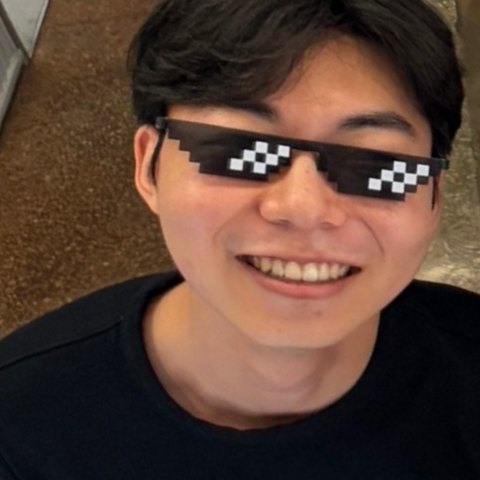
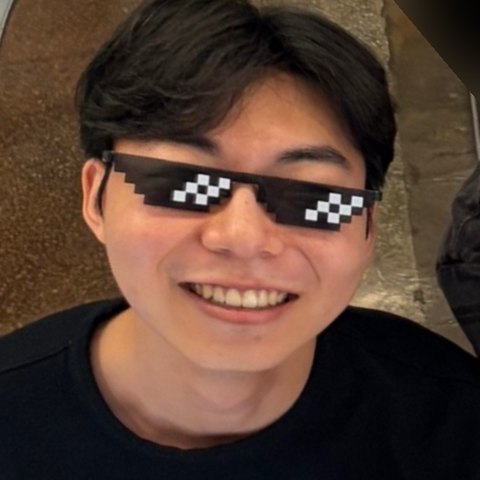
Team photo centered; API slides as grouped endpoint cards and code cards

diff --git a/docs/index.html b/docs/index.html
@@ -149,6 +149,19 @@
 
     .roadmap>div{display:flex;align-items:center;gap:20px;padding:9px 0;border-top:1px dashed #D3DDE3}.roadmap>div:first-child{border-top:0;padding-top:0}.roadmap svg{width:120px;height:64px;flex:none}.roadmap p{margin:0;display:flex;flex-direction:column;gap:3px}.roadmap b{font-size:21px;letter-spacing:-.02em}.roadmap span{font-size:17px;color:var(--muted);word-break:keep-all}
 
+    .apigrid{display:grid;grid-template-columns:1fr 1.25fr 1fr;gap:22px;margin-top:30px}
+    .apigroup{padding:24px 26px}.apigroup h3{display:flex;align-items:center;gap:10px;font-size:22px;margin:0 0 14px}.apigroup ul{list-style:none;margin:0;padding:0}
+    .apigroup li{display:grid;grid-template-columns:auto 1fr;gap:4px 12px;align-items:center;padding:11px 0;border-top:1px solid #EEEAE4}.apigroup li:first-child{border-top:0}
+    .apigroup code,.cmdflow code,.lanes code{font:600 18px ui-monospace,Menlo,monospace;color:var(--ink)}.apigroup em{grid-column:2;font-style:normal;font-size:16px;color:var(--muted)}
+    .mths{display:flex;gap:4px}.mth{display:inline-block;min-width:50px;text-align:center;border-radius:7px;padding:4px 8px;font:700 13px ui-monospace,Menlo,monospace;background:#E0ECFA;color:#385F93}.mth.post{background:#DEF0E5;color:#356A4C}
+    .lanes{display:grid;grid-template-columns:1fr 1.4fr;gap:22px;margin-top:22px}.lanes>div{display:flex;align-items:center;gap:14px;padding:16px 22px;border-radius:16px;background:#F3EFE8;font-size:18px;color:var(--muted)}
+    .cmdflow{display:grid;grid-template-columns:repeat(4,1fr);gap:22px;margin-top:30px}.cmdflow .card{position:relative;padding:22px 24px;display:flex;flex-direction:column;gap:8px}.cmdflow .card:not(:last-child):after{content:'→';position:absolute;right:-19px;top:30px;color:#A7ACB4;font-size:22px}
+    .cmdflow b{font-size:22px;letter-spacing:-.02em;margin-top:4px}.cmdflow p{margin:0;display:flex;align-items:center;gap:8px;flex-wrap:wrap}.cmdflow code{font-size:16px}.cmdflow em{font-style:normal;font-size:16px;color:var(--muted)}.cmdflow .badge{width:38px;height:38px;font-size:18px}
+    .codes{display:grid;grid-template-columns:1fr 1fr;gap:24px;margin-top:24px}
+    .codecard{border-radius:18px;overflow:hidden;background:#2E323B;box-shadow:0 12px 28px #3b3f4a22}.codecard header{display:flex;align-items:center;gap:8px;padding:12px 18px;background:#262931;font:600 15px ui-monospace,Menlo,monospace;color:#C9CED8}.codecard header i{width:11px;height:11px;border-radius:50%;background:#FF6057}.codecard header i:nth-child(2){background:#FEBC2E}.codecard header i:nth-child(3){background:#28C840;margin-right:8px}
+    .codecard pre{margin:0;padding:18px 22px;font:18px/1.6 ui-monospace,Menlo,monospace;color:#E6E8EC}.codecard .k{color:#A9C9F5}.codecard .v{color:#B6E5CF}
+    .codecard footer{padding:14px 22px 18px;border-top:1px solid #3A3F4A;font-size:16px;line-height:1.6;color:#C9CED8}.codecard .sc{display:inline-block;margin:0 6px 0 10px;padding:1px 8px;border-radius:6px;background:#F8C4A4;color:#3B3F4A;font:700 14px ui-monospace,Menlo,monospace}.codecard .sc:first-child{margin-left:0}
+
     /* controls stay out of the way of the slide footer */
     #controls{position:fixed;z-index:10;right:22px;bottom:19px;display:flex;align-items:center;gap:8px;opacity:.35;transition:opacity .2s}#controls:hover{opacity:1}
     #controls button{background:var(--ink);color:#fff;border:0;border-radius:99px;padding:9px 13px;cursor:pointer}#controls button:hover{background:var(--blue-d)}
@@ -164,26 +177,6 @@
     .erd-figure.agent img{height:500px}
     .tech-caption{display:flex;gap:20px;align-items:center;justify-content:space-between;margin-top:14px;font-size:17px;color:var(--muted);line-height:1.5}
     .tech-link{color:#385F93;text-decoration:underline;text-underline-offset:4px;font-weight:700;white-space:nowrap}
-    .api-table{width:100%;border-collapse:separate;border-spacing:0;margin-top:26px;font-size:20px;overflow:hidden;border:1px solid var(--line);border-radius:20px;background:var(--card)}
-    .api-table th{text-align:left;background:#EFECE6;padding:14px 20px;font-size:17px;color:var(--muted)}
-    .api-table td{border-top:1px solid var(--line);padding:13px 20px;line-height:1.4}
-    .api-table td:first-child{width:150px;white-space:nowrap}
-    .api-table td:nth-child(2){width:550px}
-    .api-table code{font-family:ui-monospace,Menlo,monospace;font-size:19px}
-    .api-method{display:inline-block;border-radius:7px;background:#E0ECFA;color:#385F93;padding:5px 10px;font:700 16px ui-monospace,Menlo,monospace}
-    .api-method.post{background:#DEF0E5;color:#356A4C}
-    .api-scope{margin-top:20px;padding:18px 22px;background:#EEF4FD;border-radius:16px;font-size:18px;line-height:1.6}
-    .api-scope code{font-size:17px}
-    .command-flow{display:grid;grid-template-columns:repeat(4,1fr);gap:20px;margin-top:30px}
-    .command-step{padding:22px 24px;border:1px solid var(--line);border-radius:20px;background:var(--card);position:relative}
-    .command-step:not(:last-child):after{content:'→';position:absolute;right:-17px;top:38px;color:var(--eyebrow);font-size:24px}
-    .command-step b{display:block;font-size:23px;margin-bottom:9px;letter-spacing:-.02em}
-    .command-step span{font-size:18px;line-height:1.55;color:var(--muted)}
-    .api-examples{display:grid;grid-template-columns:1fr 1fr;gap:26px;margin-top:24px}
-    .api-example{padding:22px 26px;border:1px solid var(--line);border-radius:20px;background:var(--card)}
-    .api-example h3{font-size:21px;margin:0 0 14px}
-    .api-example pre{font:18px/1.5 ui-monospace,Menlo,monospace;margin:0;white-space:pre-wrap;overflow-wrap:anywhere;color:#475262}
-    .api-example .note{font-size:17px;margin-top:14px}
     .tech-slide a:focus-visible{outline:3px solid var(--blue-d);outline-offset:5px}
   </style>
 </head>
@@ -353,16 +346,8 @@
     <div class="topline"><span class="kicker">03 / API specification · Web</span><a class="tag blue tech-link" href="api-spec.html" target="_blank" rel="noopener noreferrer">상세 명세서 · 43개 동작 ↗</a></div>
     <h2 class="title">웹은 상태를 읽고, 사용자의 결정을 전달</h2>
     <p class="lead">공통 경로 <code>/api/v1/</code> · JSON · 로그인 세션 + 변경 요청의 X-CSRFToken</p>
-    <table class="api-table"><thead><tr><th>Method</th><th>Endpoint · 접두사 생략</th><th>요청 / 응답의 역할</th></tr></thead><tbody>
-      <tr><td><span class="api-method">GET</span></td><td><code>auth/session/</code></td><td>로그인 상태 · CSRF 토큰 조회</td></tr>
-      <tr><td><span class="api-method post">POST</span></td><td><code>auth/signup/ · auth/login/</code></td><td>계정 생성 201 · 로그인 200 · 세션 발급</td></tr>
-      <tr><td><span class="api-method">GET</span></td><td><code>agent/status/</code></td><td>Mac 연결 · 파일 상태 · 최근 명령 조회</td></tr>
-      <tr><td><span class="api-method post">POST</span></td><td><code>agent/commands/</code></td><td>분류 답변 · 승인 · 유지 · 되돌리기 · 복구</td></tr>
-      <tr><td><span class="api-method post">POST</span></td><td><code>agent/pairing/</code></td><td>5분짜리 일회용 Mac 연결 코드 발급</td></tr>
-      <tr><td><span class="api-method">GET</span> <span class="api-method post">POST</span></td><td><code>onboarding/</code></td><td>연결 가이드 진행 조회 · 테스트 수신 확인</td></tr>
-      <tr><td><span class="api-method">REST</span></td><td><code>devices/ · folders/ · files/ · reviews/</code></td><td>사용자 소유 DB 기록 조회·등록 (기능별 수정·삭제)</td></tr>
-    </tbody></table>
-    <div class="api-scope"><b>DB 기록과 실제 파일 작업의 경계</b> · <code>reviews/{id}/answer/</code>는 답변을 저장합니다.<br>Mac의 파일 이동·복구는 <code>agent/commands/</code> → 브리지 → 로컬 실행기를 거칩니다.</div>
+    <div class="apigrid"><div class="card apigroup"><h3><span class="fdot blue"></span>인증 · 계정</h3><ul><li><span class="mths"><span class="mth get">GET</span></span><code>auth/session/</code><em>로그인 상태 · CSRF 토큰</em></li><li><span class="mths"><span class="mth post">POST</span></span><code>auth/signup/</code><em>계정 생성 · 201</em></li><li><span class="mths"><span class="mth post">POST</span></span><code>auth/login/</code><em>로그인 · 세션 발급</em></li></ul></div><div class="card apigroup"><h3><span class="fdot peach"></span>Mac 연결 · 명령</h3><ul><li><span class="mths"><span class="mth get">GET</span></span><code>agent/status/</code><em>Mac 연결 · 파일 상태 · 최근 명령</em></li><li><span class="mths"><span class="mth post">POST</span></span><code>agent/commands/</code><em>답변 · 승인 · 유지 · 되돌리기 · 복구</em></li><li><span class="mths"><span class="mth post">POST</span></span><code>agent/pairing/</code><em>5분짜리 일회용 연결 코드</em></li><li><span class="mths"><span class="mth get">GET</span><span class="mth post">POST</span></span><code>onboarding/</code><em>연결 가이드 진행 · 테스트 수신</em></li></ul></div><div class="card apigroup"><h3><span class="fdot mint"></span>사용자 데이터 · REST</h3><ul><li><span class="mths"><span class="mth get">GET</span><span class="mth post">POST</span></span><code>devices/</code><em>기기</em></li><li><span class="mths"><span class="mth get">GET</span><span class="mth post">POST</span></span><code>folders/</code><em>폴더와 지침</em></li><li><span class="mths"><span class="mth get">GET</span><span class="mth post">POST</span></span><code>files/</code><em>파일 기록</em></li><li><span class="mths"><span class="mth get">GET</span><span class="mth post">POST</span></span><code>reviews/</code><em>분류 질문 · 답변</em></li></ul></div></div>
+    <div class="lanes"><div><span class="tag mint">DB 기록</span><code>reviews/{id}/answer/</code> 답변만 저장</div><div><span class="tag peach">실제 파일 작업</span><code>agent/commands/</code> → 브리지 → Mac 로컬 실행기</div></div>
     <div class="pagefoot">SOURCE · moa_api/urls.py · library/views.py · agent_api.py · OpenAPI 스냅샷을 상세 명세서로 제공</div>
   </section>
 
@@ -370,24 +355,16 @@
     <div class="topline"><span class="kicker">03 / API specification · Execution</span><span class="tag peach">Session ↔ Bearer</span></div>
     <h2 class="title">승인은 웹에서, 파일 변경은 Mac에서</h2>
     <p class="lead">브리지는 Bearer 토큰으로 5초마다 동기화하고, 실행기는 계획과 파일 해시를 재검증합니다.</p>
-    <div class="command-flow">
-      <div class="command-step"><b>1 · 웹에서 승인</b><span>POST agent/commands/<br>201 · pending 생성</span></div>
-      <div class="command-step"><b>2 · 브리지가 수신</b><span>POST agent/bridge/poll/<br>가장 오래된 명령 → running</span></div>
-      <div class="command-step"><b>3 · Mac에서 실행</b><span>로컬 실행기에서 재검증<br>승인한 파일 작업 수행</span></div>
-      <div class="command-step"><b>4 · 결과 보고</b><span>POST agent/bridge/result/<br>done 또는 failed 저장</span></div>
-    </div>
-    <div class="api-examples">
-      <article class="api-example"><h3>승인 요청 · POST /api/v1/agent/commands/</h3><pre>{
-  "link_id": "00000000-0000-4000-8000-000000000001",
-  "action": "approve",
-  "asset_id": "local-asset-id"
-}</pre><p class="note">plan은 서버의 최신 snapshot에서 가져옵니다.<br>클라이언트가 임의의 이동 경로를 보내지 않습니다.</p></article>
-      <article class="api-example"><h3>201 응답 예시 · 핵심 필드</h3><pre>{
-  "id": "00000000-0000-4000-8000-000000000002",
-  "action": "approve",
-  "status": "pending"
-}</pre><p class="note">400 잘못된 요청 · 403 인증/CSRF 오류<br>404 연결 없음 · 409 이미 처리 중인 명령</p></article>
-    </div>
+    <div class="cmdflow"><div class="card"><span class="badge blue">1</span><b>웹에서 승인</b><p><span class="mth post">POST</span><code>agent/commands/</code></p><em>201 · pending 생성</em></div><div class="card"><span class="badge peach">2</span><b>브리지가 수신</b><p><span class="mth post">POST</span><code>agent/bridge/poll/</code></p><em>가장 오래된 명령 → running</em></div><div class="card"><span class="badge mint">3</span><b>Mac에서 실행</b><p><code>로컬 실행기</code></p><em>계획 · 파일 해시 재검증 후 수행</em></div><div class="card"><span class="badge butter">4</span><b>결과 보고</b><p><span class="mth post">POST</span><code>agent/bridge/result/</code></p><em>done 또는 failed 저장</em></div></div>
+    <div class="codes"><article class="codecard"><header><i></i><i></i><i></i><span>POST /api/v1/agent/commands/</span></header><pre>{
+  <span class="k">"link_id"</span>: <span class="v">"0000…0001"</span>,
+  <span class="k">"action"</span>: <span class="v">"approve"</span>,
+  <span class="k">"asset_id"</span>: <span class="v">"local-asset-id"</span>
+}</pre><footer>plan은 서버의 최신 snapshot에서 가져와, 클라이언트가 이동 경로를 보내지 않습니다.</footer></article><article class="codecard"><header><i></i><i></i><i></i><span>201 Created · 핵심 필드</span></header><pre>{
+  <span class="k">"id"</span>: <span class="v">"0000…0002"</span>,
+  <span class="k">"action"</span>: <span class="v">"approve"</span>,
+  <span class="k">"status"</span>: <span class="v">"pending"</span>
+}</pre><footer><span class="sc">400</span>잘못된 요청 <span class="sc">403</span>인증·CSRF <span class="sc">404</span>연결 없음 <span class="sc">409</span>처리 중</footer></article></div>
     <div class="tech-caption"><span>로컬 설정: /local/setup/ · /local/folders/ · /local/cloud/connect/ — 설치된 Mac 전용</span><a class="tech-link" href="api-spec.html" target="_blank" rel="noopener noreferrer">요청·응답 전체 보기 ↗</a></div>
     <div class="pagefoot">SOURCE · agent_api.py · web/bridge/mac_bridge.py · 기기별 대기/실행 중 명령은 하나만 허용</div>
   </section>
